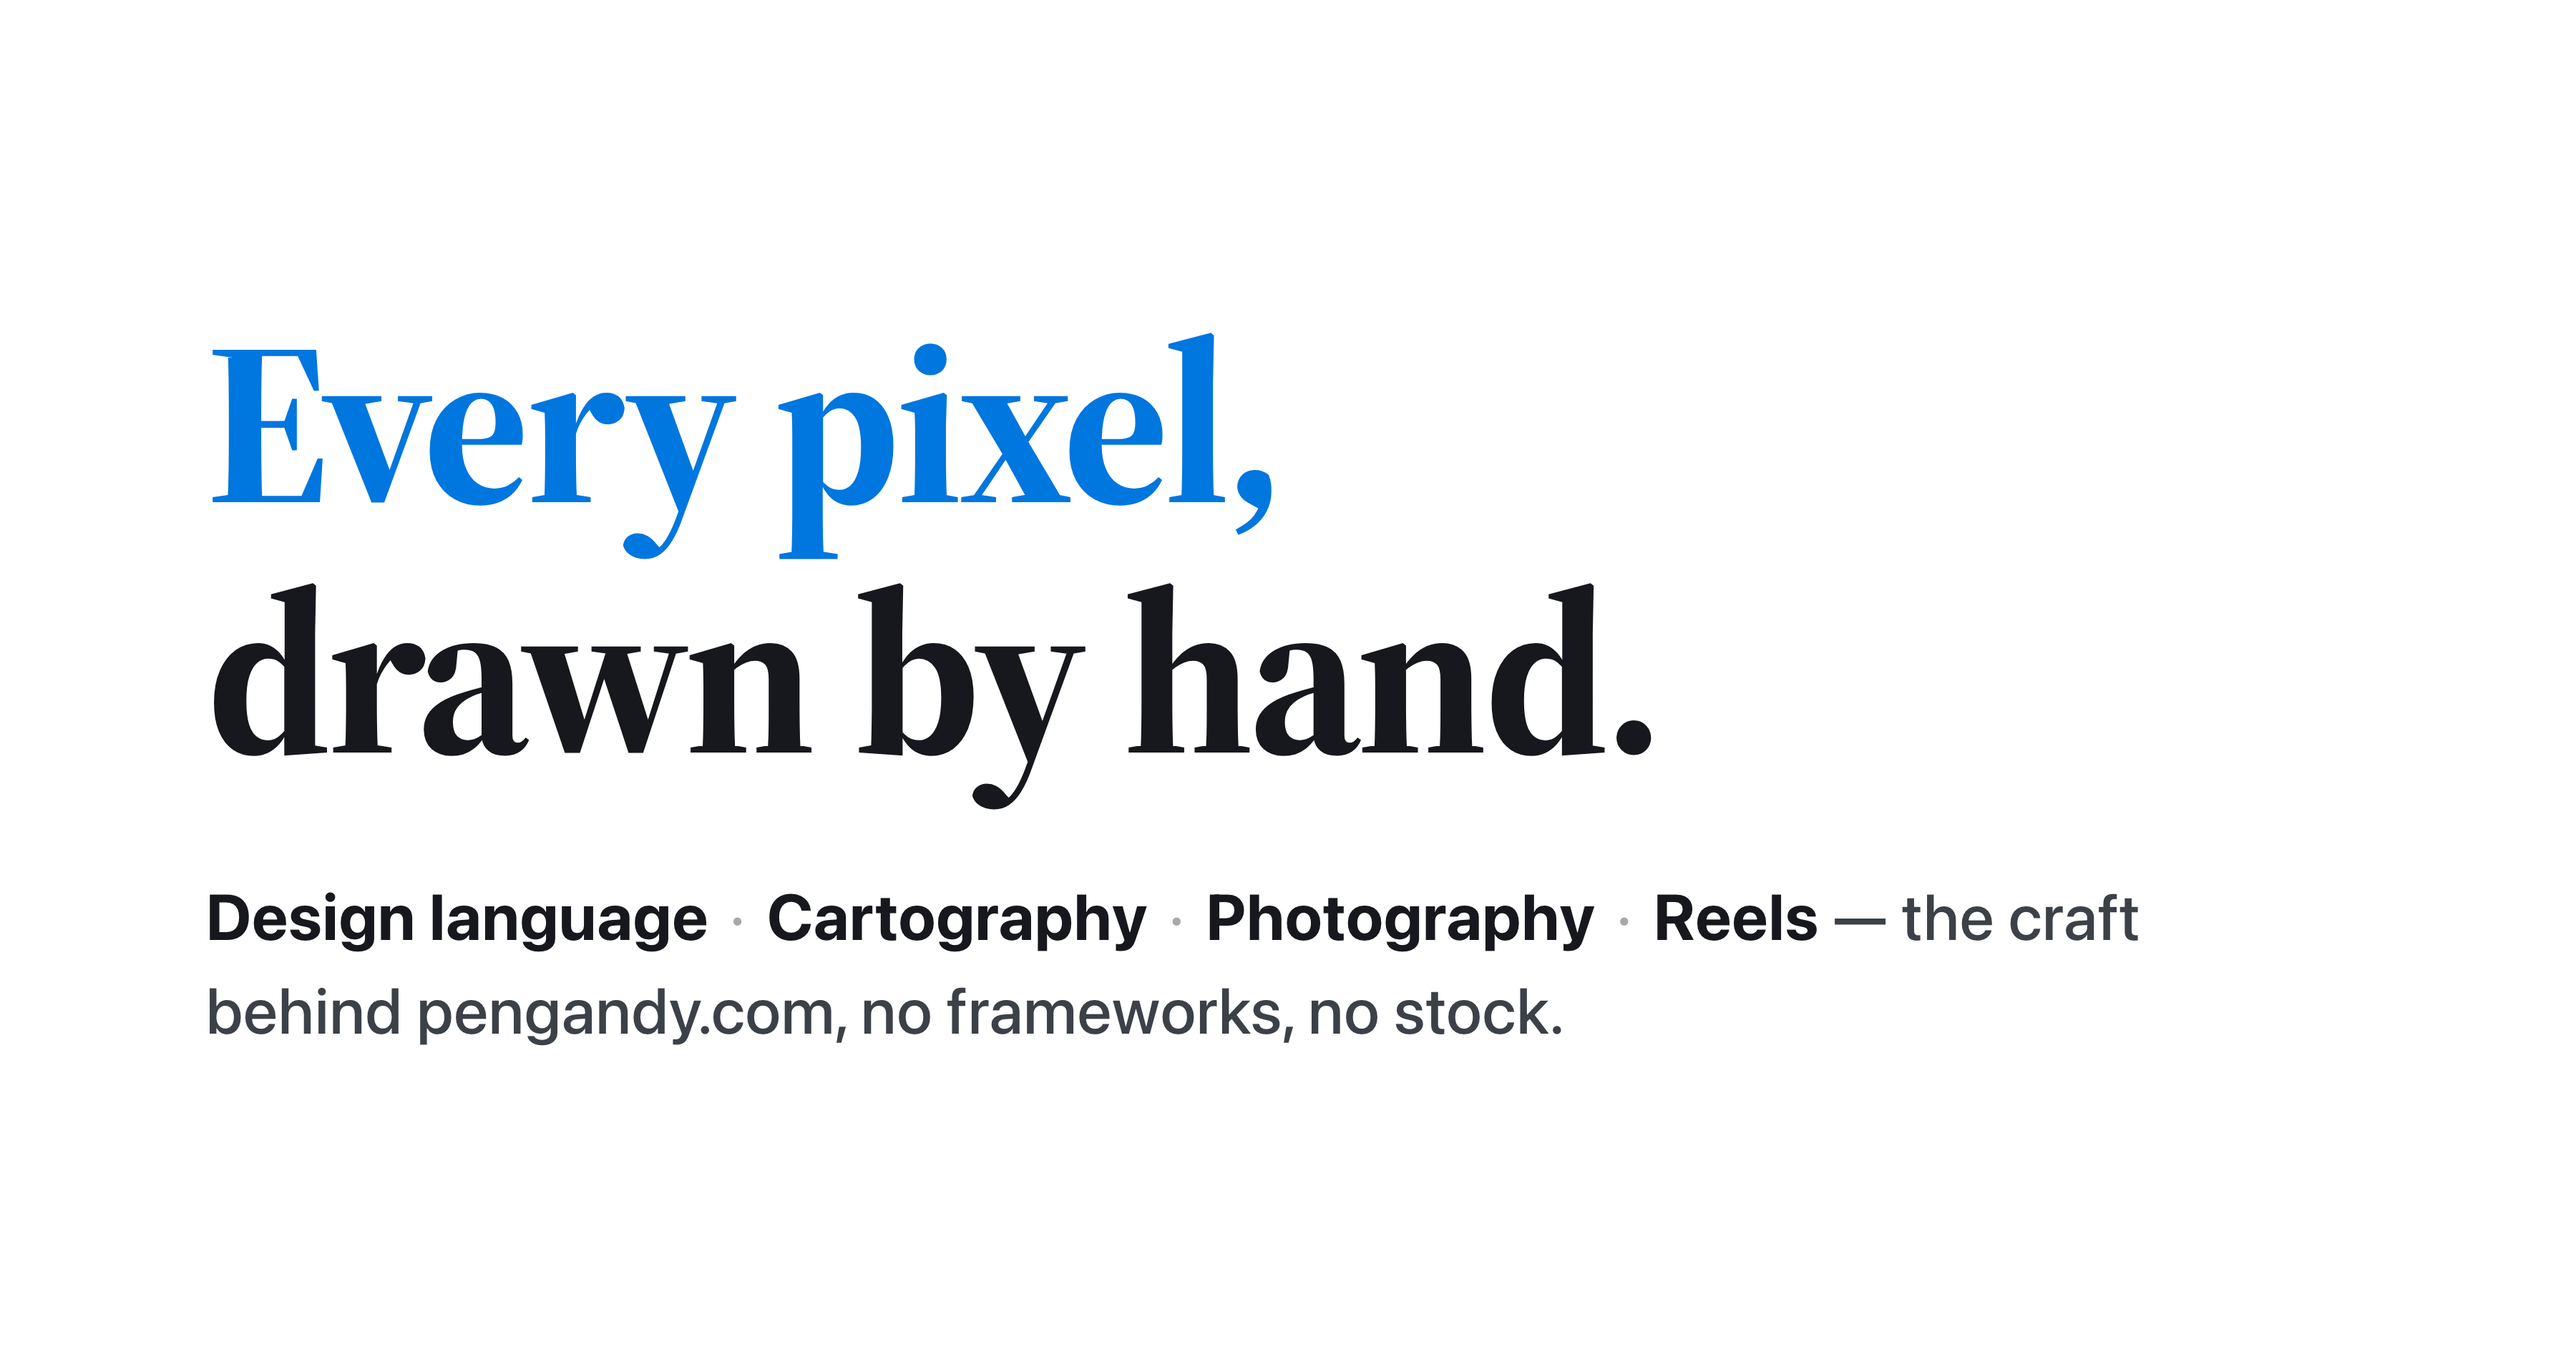
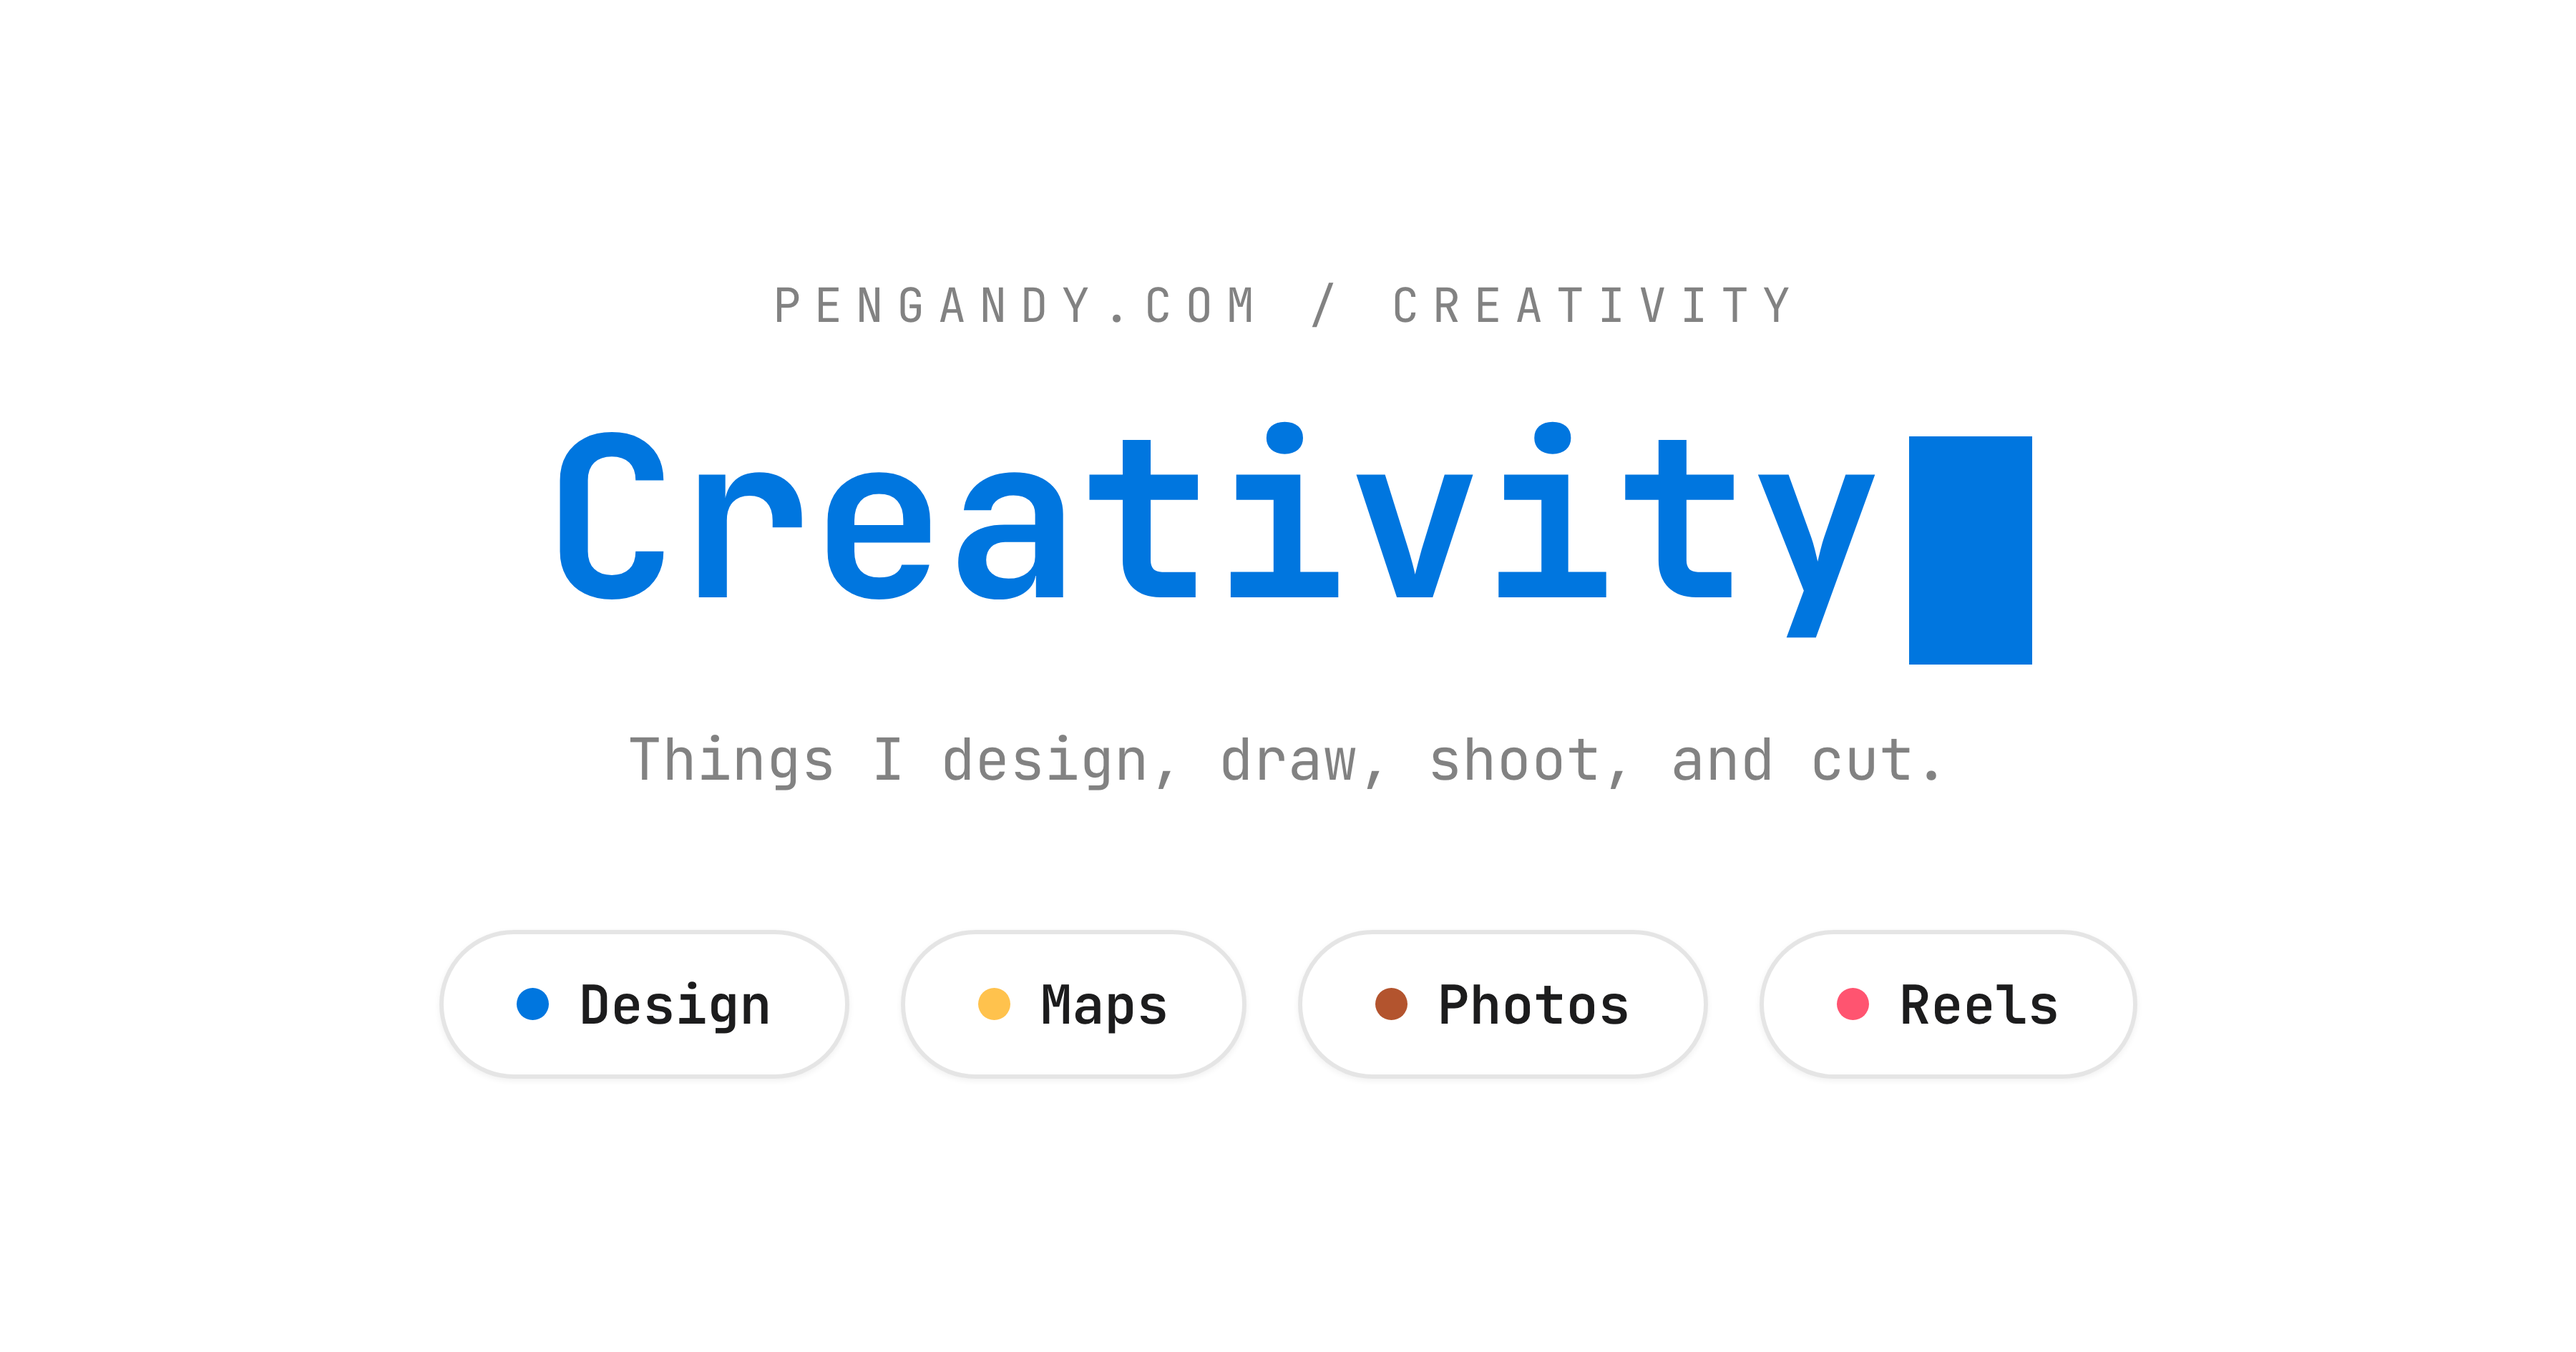
Creativity: OG card redesigned as simplified hero panel replica

diff --git a/assets/creativity/og-card.html b/assets/creativity/og-card.html
@@ -3,55 +3,100 @@
 <head>
 <meta charset="utf-8">
 <!-- ============================================================
-     Social preview card — 1200×630, click-hook edition.
-     Hook = the page's most counterintuitive claim: everything
-     here is drawn/shot/cut by hand — zero frameworks, zero
-     stock. Chapters row creates curiosity about what's inside.
-     Page title + domain are rendered by LinkedIn/Twitter below
-     the image, so neither is repeated here.
+     Social preview card — 1200×630.
+     A simplified, scaled-up replica of the /creativity hero panel
+     (panel 0): mono kicker, accent title with block cursor, one-line
+     sub, and the four chapter chips with their section dot colors.
      ============================================================ -->
 <link rel="preconnect" href="https://fonts.gstatic.com" crossorigin>
-<link rel="stylesheet" href="https://fonts.googleapis.com/css2?family=Source+Serif+4:ital,opsz,wght@0,8..60,400..700;1,8..60,400..700&display=swap">
+<link rel="stylesheet" href="https://fonts.googleapis.com/css2?family=JetBrains+Mono:wght@400;600;700&display=swap">
 <style>
   :root {
-    --accent: #0076df;
-    --amber: #b45309;
-    --ink: #16181d;
-    --sub: #3c4148;
-    --hair: rgba(128, 128, 128, .38);
-    --hair-faint: rgba(128, 128, 128, .2);
-    --serif: "Source Serif 4", Georgia, serif;
-    --sans: -apple-system, BlinkMacSystemFont, "Segoe UI", Roboto, sans-serif;
+    --text: #1c1c1d;
+    --text-light: #828282;
+    --divider: rgba(0, 0, 0, 0.1);
+    --theme: #0076df;
+    --amber: #ffc24d;
+    --warm: #b3542e;
+    --pink: #ff5470;
+    --mono: 'JetBrains Mono', 'Fira Code', 'Consolas', monospace;
   }
   * { margin: 0; padding: 0; box-sizing: border-box; }
   html, body { width: 1200px; height: 630px; overflow: hidden; }
   body {
-    background: #fff; color: var(--ink); font-family: var(--sans);
-    display: flex; flex-direction: column; justify-content: center;
-    padding: 0 96px;
+    background: #fff;
+    font-family: var(--mono);
+    color: var(--text);
+    display: flex;
+    flex-direction: column;
+    align-items: center;
+    justify-content: center;
+    text-align: center;
     -webkit-font-smoothing: antialiased;
   }
 
-  h1 {
-    font-family: var(--serif); font-weight: 700;
-    font-size: 108px; line-height: 1.08; letter-spacing: -0.02em;
+  .kicker {
+    font-size: 22px;
+    letter-spacing: 6px;
+    text-transform: uppercase;
+    color: var(--text-light);
+    margin-bottom: 30px;
   }
-  h1 .accent { color: var(--accent); }
+
+  h1 {
+    font-size: 104px;
+    font-weight: 700;
+    line-height: 1.05;
+    margin-bottom: 26px;
+  }
+  h1 .accent { color: var(--theme); }
+  h1 .cursor {
+    display: inline-block;
+    width: 0.55em;
+    height: 1.02em;
+    background: var(--theme);
+    vertical-align: text-bottom;
+    margin-left: 12px;
+  }
 
   .sub {
-    font-size: 30px; font-weight: 500; line-height: 1.45; color: var(--sub);
-    margin-top: 34px; max-width: 950px;
+    font-size: 27px;
+    color: var(--text-light);
+    margin-bottom: 62px;
   }
-  .sub b { font-weight: 700; color: var(--ink); }
-  .sub .dot { opacity: .45; margin: 0 10px; }
 
+  .chips {
+    display: flex;
+    gap: 24px;
+  }
+  .chip {
+    display: inline-flex;
+    align-items: center;
+    gap: 14px;
+    border: 2px solid var(--divider);
+    border-radius: 999px;
+    padding: 16px 34px;
+    font-size: 25px;
+    font-weight: 600;
+    box-shadow: 0 1px 3px rgba(0, 0, 0, 0.06);
+  }
+  .chip .dot { width: 15px; height: 15px; border-radius: 50%; }
 </style>
 </head>
 <body>
 
-  <h1><span class="accent">Every pixel,</span><br>drawn by hand.</h1>
+  <div class="kicker">pengandy.com / creativity</div>
 
-  <p class="sub"><b>Design language</b><span class="dot">·</span><b>Cartography</b><span class="dot">·</span><b>Photography</b><span class="dot">·</span><b>Reels</b> — the craft behind pengandy.com, no frameworks, no stock.</p>
+  <h1><span class="accent">Creativity</span><span class="cursor"></span></h1>
+
+  <p class="sub">Things I design, draw, shoot, and cut.</p>
+
+  <div class="chips">
+    <span class="chip"><span class="dot" style="background:var(--theme)"></span>Design</span>
+    <span class="chip"><span class="dot" style="background:var(--amber)"></span>Maps</span>
+    <span class="chip"><span class="dot" style="background:var(--warm)"></span>Photos</span>
+    <span class="chip"><span class="dot" style="background:var(--pink)"></span>Reels</span>
+  </div>
 
 </body>
 </html>
